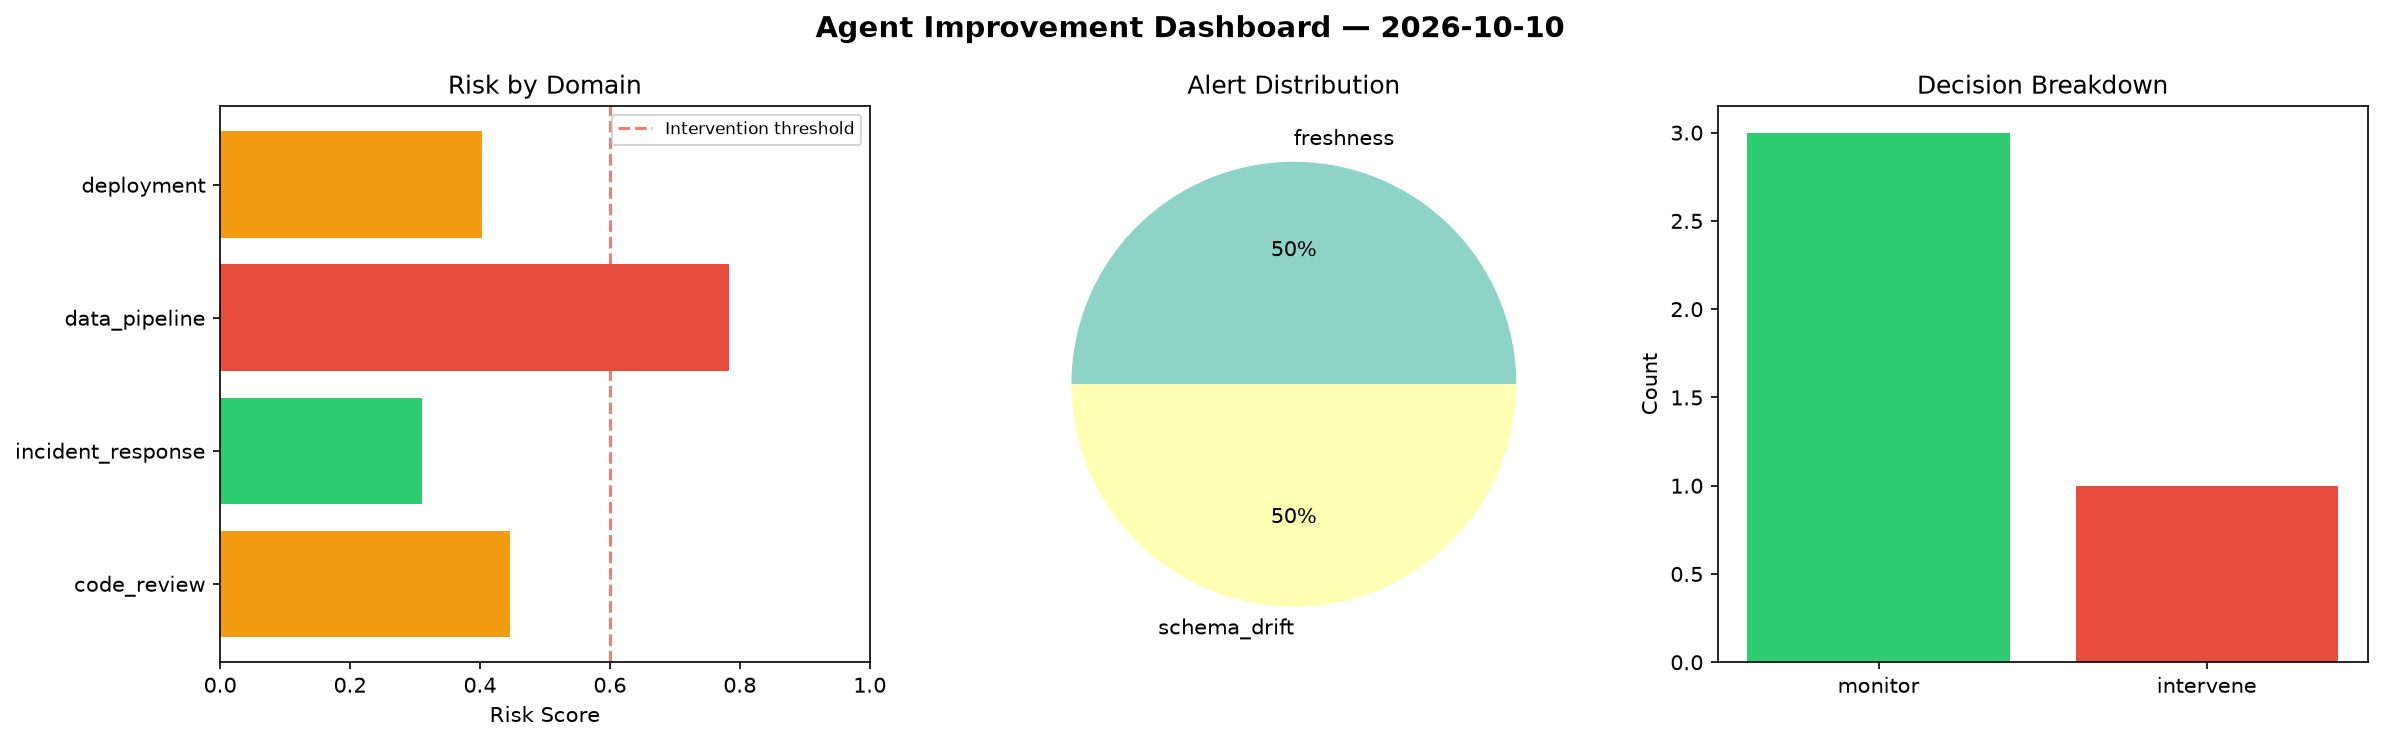
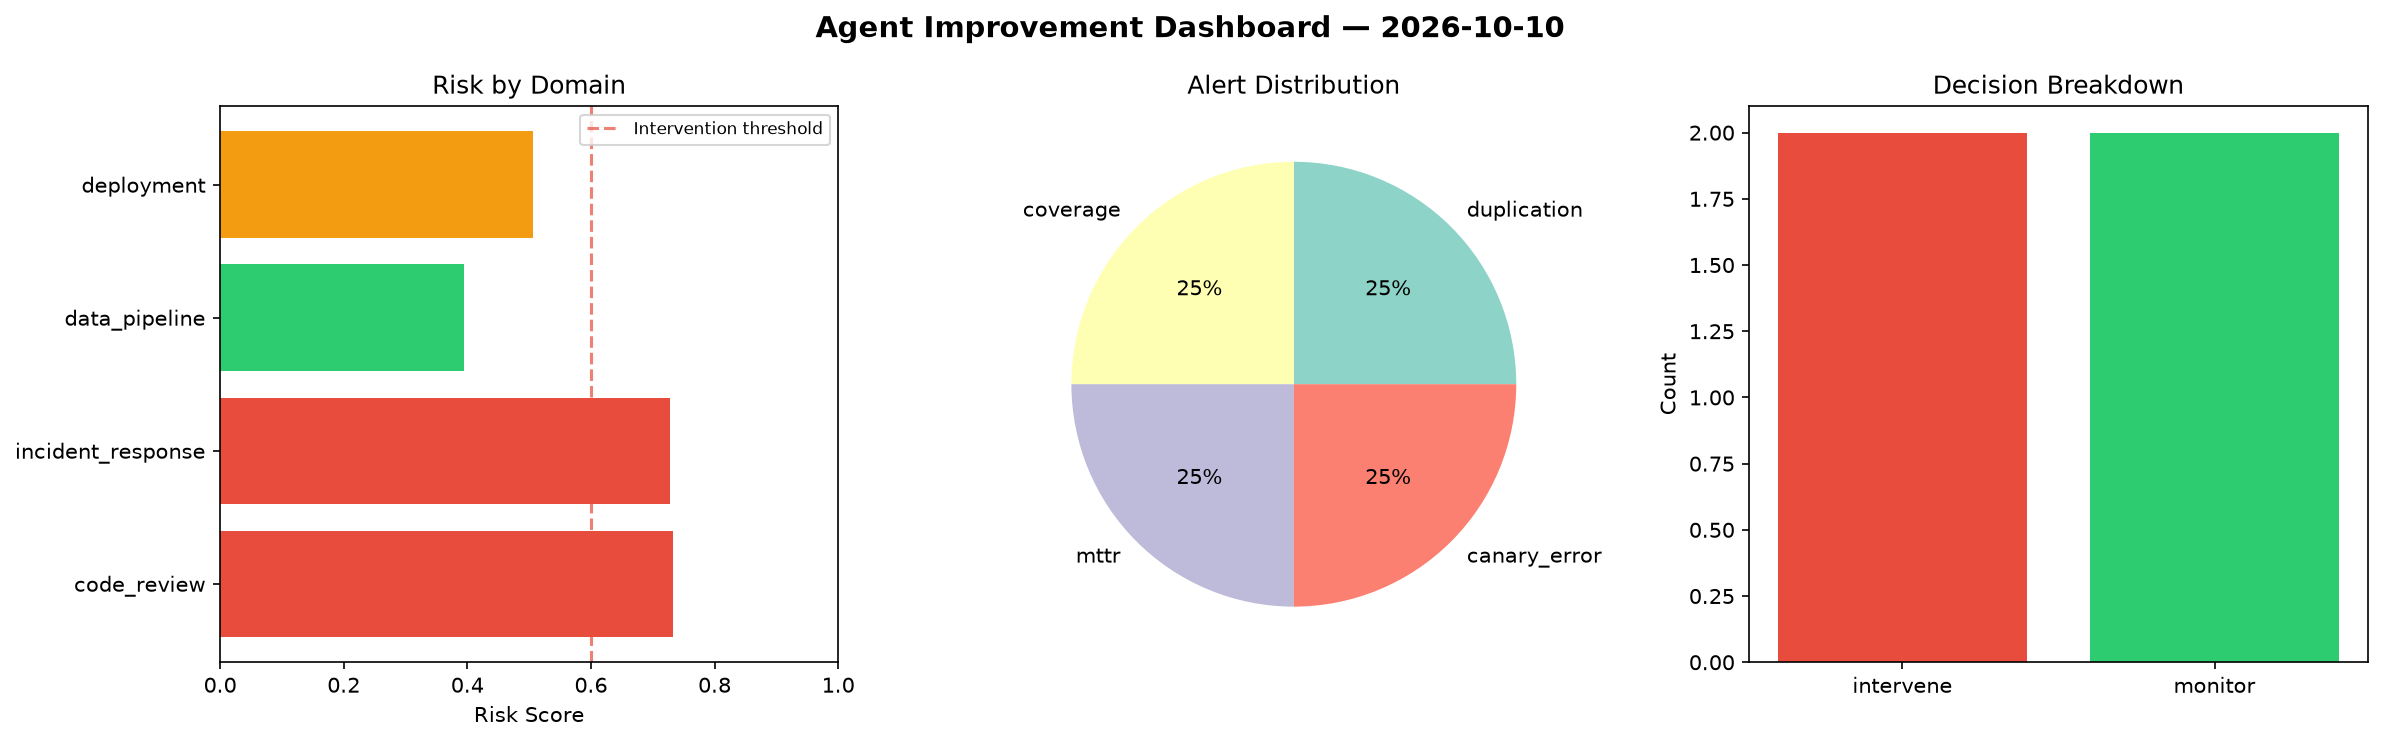
agent-improvement: daily cycle 2026-10-10T23:31

diff --git a/logs/2026-10-10.md b/logs/2026-10-10.md
@@ -1,6 +1,6 @@
 # Agent Improvement Report — 2026-10-10
 
-**Cycle ID:** `e6bb3647` | **Avg Risk:** 0.4858 | **Interventions:** 1/4
+**Cycle ID:** `b8ddac22` | **Avg Risk:** 0.5903 | **Interventions:** 2/4
 
 ![Dashboard](2026-10-10_dashboard.png)
 
@@ -10,18 +10,18 @@
 
 | Domain | Risk Score | Decision | Alerts |
 |--------|-----------|----------|--------|
-| code_review | 0.4455 | monitor | none |
-| incident_response | 0.3112 | monitor | none |
-| data_pipeline | 0.7837 | intervene | freshness, schema_drift |
-| deployment | 0.4029 | monitor | none |
+| code_review | 0.7333 | intervene | duplication, coverage |
+| incident_response | 0.7272 | intervene | mttr |
+| data_pipeline | 0.3948 | monitor | none |
+| deployment | 0.5059 | monitor | canary_error |
 
 ## Delta vs Yesterday
 
 | Domain | Today | Yesterday | Change |
 |--------|-------|-----------|--------|
-| code_review | 0.4455 | 0.7127 | 📉 -37.5% |
-| incident_response | 0.3112 | 0.51 | 📉 -39.0% |
-| data_pipeline | 0.7837 | 0.4183 | 📈 87.4% |
-| deployment | 0.4029 | 0.8544 | 📉 -52.8% |
+| code_review | 0.7333 | 0.7127 | 📈 2.9% |
+| incident_response | 0.7272 | 0.51 | 📈 42.6% |
+| data_pipeline | 0.3948 | 0.4183 | 📉 -5.6% |
+| deployment | 0.5059 | 0.8544 | 📉 -40.8% |
 
 **Refinement:** `{'adjustment': 'maintain', 'trend': 'improving', 'window': 4}`
